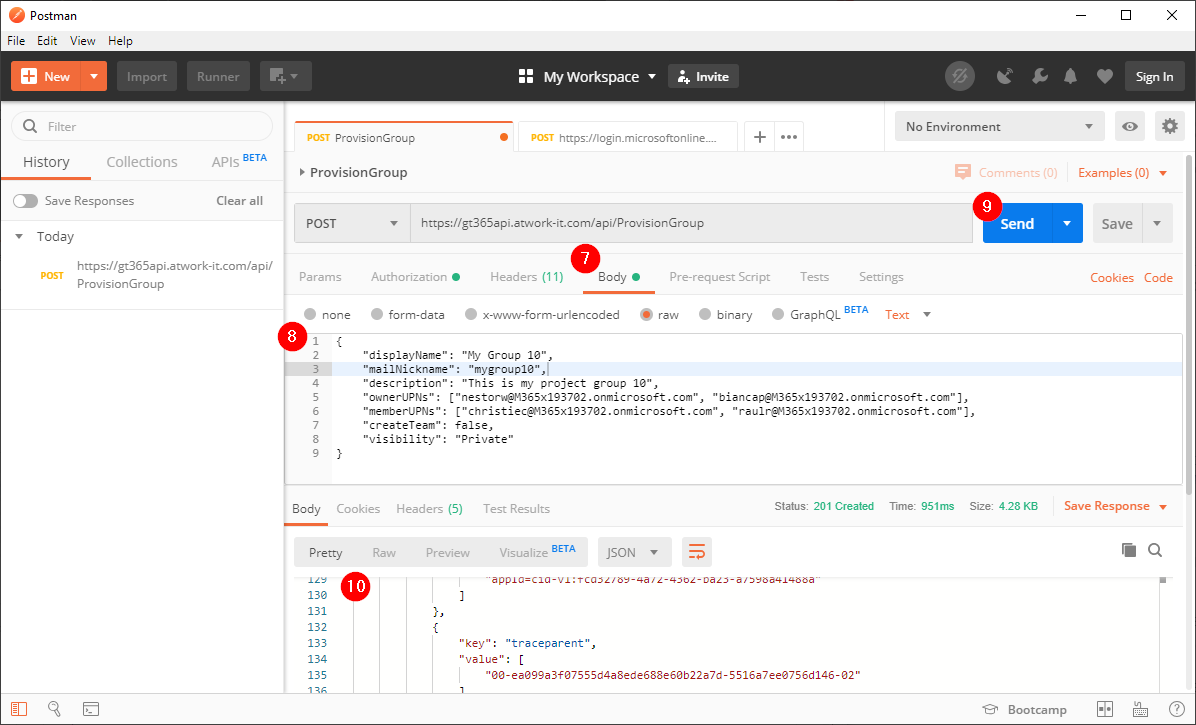
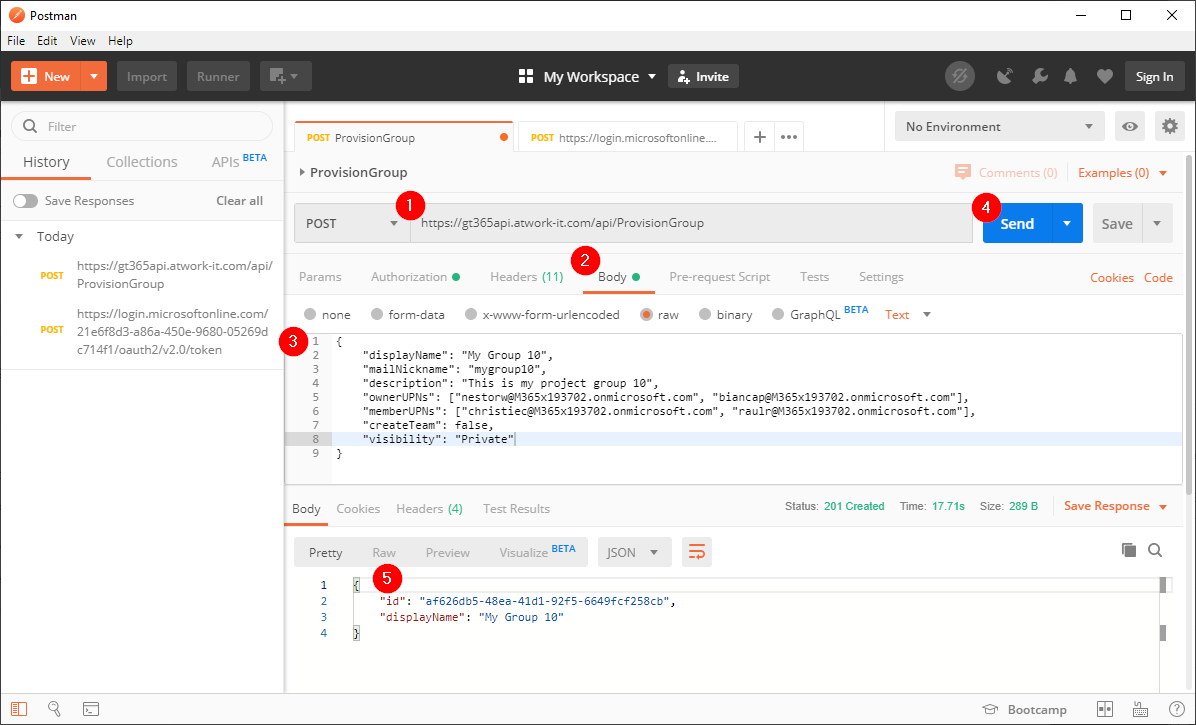
init

diff --git a/API-provisioning.md b/API-provisioning.md
@@ -43,8 +43,10 @@ Use this sample payload and adapt it as needed.
 }
 ~~~~
 
-Only these keys are mandatory: **displayName, mailNickname, ownerUPNs and visibility**.
-The other keys can be provided if required. Usually, it makes sense to use the additional parameters to define the classification (that must be set in advance), and other group properties. 
+To provison an Office 365 Group only, just the follwoing keys are mandatory: **displayName, mailNickname and visibility**.
+If **createTeam** is **true** you have to provide at least one owner in the **ownerUPNs** array ["UPN1"].
+
+The other keys can be provided if required. Usually, it makes sense to use the additional parameters to define the classification (that must be set in advance), the owners, and other group properties. So, we recommend to set as many properties that are already known at this time.
 
 Most keys are string. The following keys can have these predefined values.
 
@@ -57,166 +59,14 @@ Most keys are string. The following keys can have these predefined values.
 - The request can take from some seconds to 2 minutes, depending on the availability of the GT365 API. You will receive a HTTP status message after the operation has been completed.
 - You get back a HTTP status code and a JSON message informing about the new group or any error message.
 
-In case the provisioning was successful, you get back a result with a HTTP status code 201 as here.
+In case the provisioning was successful, you get back a result with a **HTTP status code 201 Created**. The result delivers the new Group *id* and the *displayName* as here.
 
 ~~~~json
 {
-    "version": {
-        "major": 1,
-        "minor": 1,
-        "build": -1,
-        "revision": -1,
-        "majorRevision": -1,
-        "minorRevision": -1
-    },
-    "content": {
-        "headers": [
-            {
-                "key": "Content-Type",
-                "value": [
-                    "application/json; odata.metadata=minimal; odata.streaming=true; IEEE754Compatible=false; charset=utf-8"
-                ]
-            }
-        ]
-    },
-    "statusCode": 201,
-    "reasonPhrase": "Created",
-    "headers": [
-        {
-            "key": "Cache-Control",
-            "value": [
-                "private"
-            ]
-        },
-        {
-            "key": "Transfer-Encoding",
-            "value": [
-                "chunked"
-            ]
-        },
-        {
-            "key": "Location",
-            "value": [
-                "https://graph.microsoft.com/v2/{TenantID}/directoryObjects/7058b418-4c15-49f7-b9b5-3630a16f4c75/Microsoft.DirectoryServices.Group"
-            ]
-        },
-        {
-            "key": "request-id",
-            "value": [
-                "82239735-900c-4d5a-bd08-1749b932e56e"
-            ]
-        },
-        {
-            "key": "client-request-id",
-            "value": [
-                "82239735-900c-4d5a-bd08-1749b932e56e"
-            ]
-        },
-        {
-            "key": "x-ms-ags-diagnostic",
-            "value": [
-                "{\"ServerInfo\":{\"DataCenter\":\"North Europe\",\"Slice\":\"SliceC\",\"Ring\":\"2\",\"ScaleUnit\":\"000\",\"RoleInstance\":\"AGSFE_IN_2\",\"ADSiteName\":\"NEU\"}}"
-            ]
-        },
-        {
-            "key": "OData-Version",
-            "value": [
-                "4.0"
-            ]
-        },
-        {
-            "key": "Duration",
-            "value": [
-                "440.8675"
-            ]
-        },
-        {
-            "key": "Strict-Transport-Security",
-            "value": [
-                "max-age=31536000"
-            ]
-        },
-        {
-            "key": "Date",
-            "value": [
-                "Tue, 01 Oct 2019 09:03:43 GMT"
-            ]
-        }
-    ],
-    "requestMessage": {
-        "version": {
-            "major": 2,
-            "minor": 0,
-            "build": -1,
-            "revision": -1,
-            "majorRevision": -1,
-            "minorRevision": -1
-        },
-        "content": {
-            "headers": [
-                {
-                    "key": "Content-Type",
-                    "value": [
-                        "application/json; charset=utf-8"
-                    ]
-                },
-                {
-                    "key": "Content-Length",
-                    "value": [
-                        "701"
-                    ]
-                }
-            ]
-        },
-        "method": {
-            "method": "POST"
-        },
-        "requestUri": "https://graph.microsoft.com/v1.0/groups",
-        "headers": [
-            {
-                "key": "Authorization",
-                "value": [
-                    "Bearer {some-value}"
-                ]
-            },
-            {
-                "key": "Accept",
-                "value": [
-                    "application/json"
-                ]
-            },
-            {
-                "key": "Request-Context",
-                "value": [
-                    "appId=cid-v1:fcd32789-4a72-4362-ba23-a7598a41488a"
-                ]
-            },
-            {
-                "key": "traceparent",
-                "value": [
-                    "00-ea099a3f07555d4a8ede688e60b22a7d-5516a7ee0756d146-02"
-                ]
-            },
-            {
-                "key": "tracestate",
-                "value": [
-                    "az=cid-v1:fcd32789-4a72-4362-ba23-a7598a41488a"
-                ]
-            },
-            {
-                "key": "Request-Id",
-                "value": [
-                    "|ea099a3f07555d4a8ede688e60b22a7d.490f3e17_1."
-                ]
-            }
-        ],
-        "properties": {}
-    },
-    "isSuccessStatusCode": true
+    "id": "af626db5-48ea-41d1-92f5-6649fcf258cb",
+    "displayName": "My Group 10"
 }
 ~~~~
-
-The key "isSuccessStatusCode" with the value *true* can be used to see if the operation was successful or not.
 
 - Check the created group or Team with Microsoft Graph, the Azure Portal or another mechanism. In this sample, the result looks as here. There are 2 group owners and in total 4 members (2 members plus the 2 owners).
 [![link](./images/api-6.png)](./images/api-6.png "Click to enlarge")
